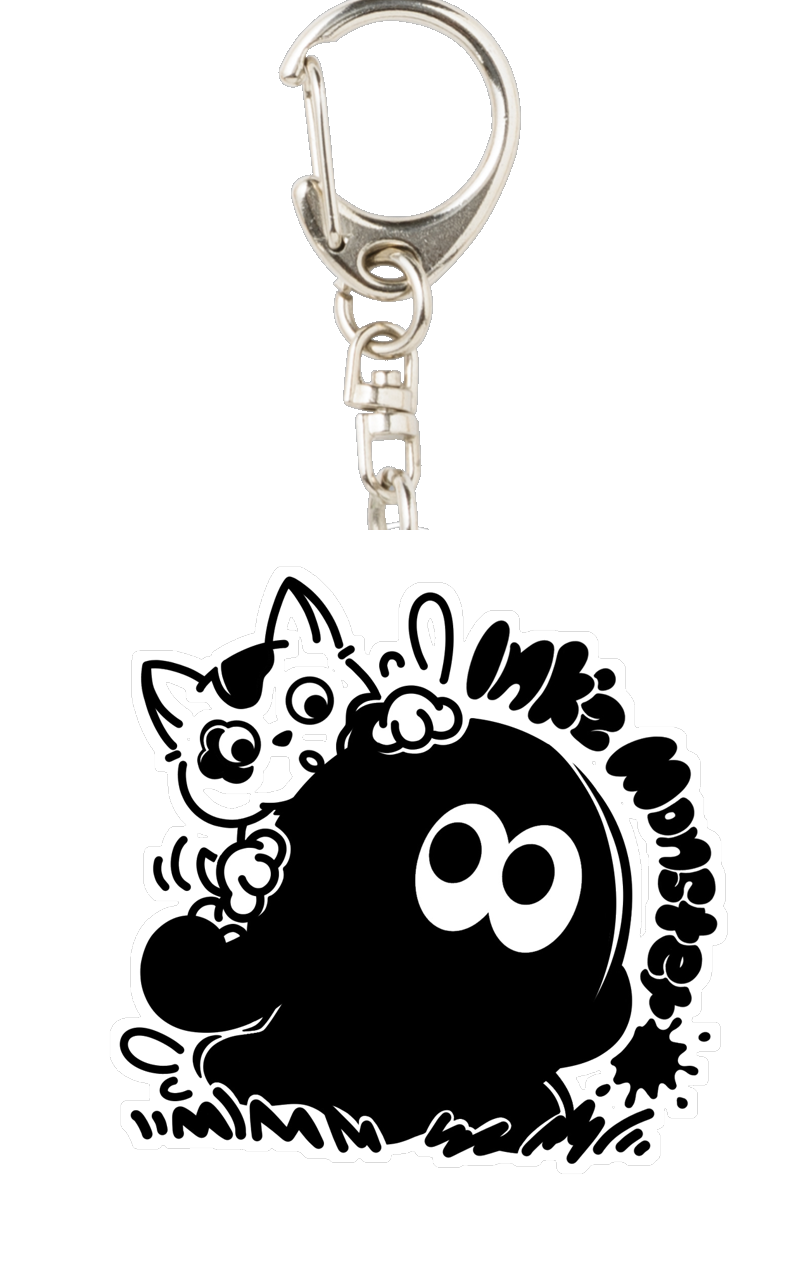
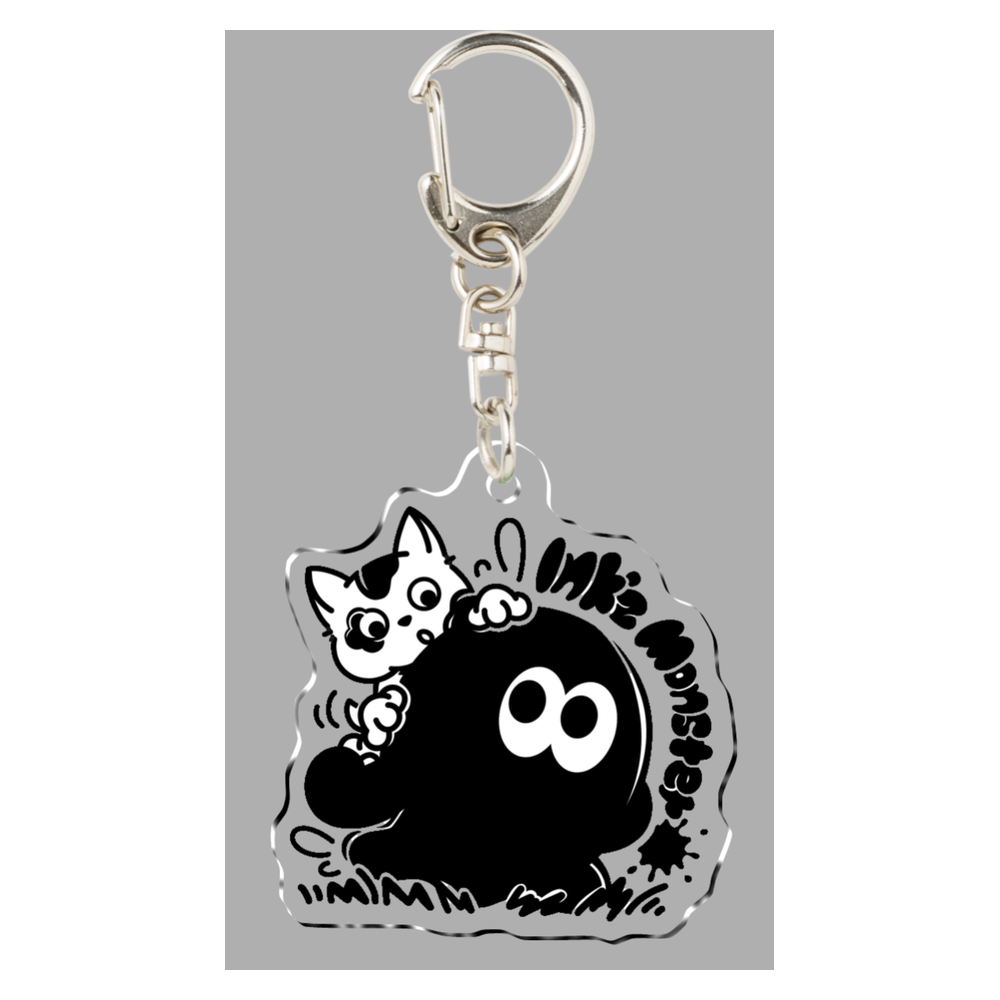
インクモの商品モックを保存版に差し替え、ぶろっくまヒーロー用画像を追加

diff --git a/index.html b/index.html
@@ -857,7 +857,7 @@
     { id:'dogooooo', name:'dogooooo', creator:'SAYoooooh', desc:'土偶から生まれたキャラクターアート「ドグー」。3Dアートでメタバース世界を構築中のプロジェクトから、ピンクのドグーが登場。', color:'pink', page:'./characters/dogooooo.html', drop:'dogooooo アクリルキーホルダー', photos:true },
     { id:'inkumo', name:'インクモ', creator:"Ink'z Monster", desc:'絵の具から生まれたインクのモンスター「インクモ」。からだの中は、いたずら仲間でぎゅうぎゅう。モノクロのインパクトが目印。', color:'mono', page:'./characters/inkumo.html', drop:'インクモ アクリルキーホルダー', photos:true },
     { id:'danna', name:'だんな', creator:'赤猫かるま', desc:'赤猫かるまのオリジナルキャラクター「だんな」。カメラを提げた、ふわふわの白い鳥。今日もどこかで、なにかを撮っています。', color:'blue', page:'./characters/danna.html', drop:'だんな アクリルキーホルダー', photos:true },
-    { id:'blockma', name:'ぶろっくま', creator:'チンチロ', desc:'チンチロのドット絵キャラクター「ぶろっくま」。紫とピンク、体が二色に分かれた四角い小さな相棒。COLOR TAPでは体の2色が同時に変わります。', color:'orig', page:'./characters/blockma.html', drop:'ぶろっくま アクリルキーホルダー', photos:false },
+    { id:'blockma', name:'ぶろっくま', creator:'チンチロ', desc:'チンチロのドット絵キャラクター「ぶろっくま」。紫とピンク、体が二色に分かれた四角い小さな相棒。COLOR TAPでは体の2色が同時に変わります。', color:'orig', page:'./characters/blockma.html', drop:'ぶろっくま アクリルキーホルダー', photos:true },
   ];
   let hi = 0;
   const dots = document.getElementById('heroDots');
